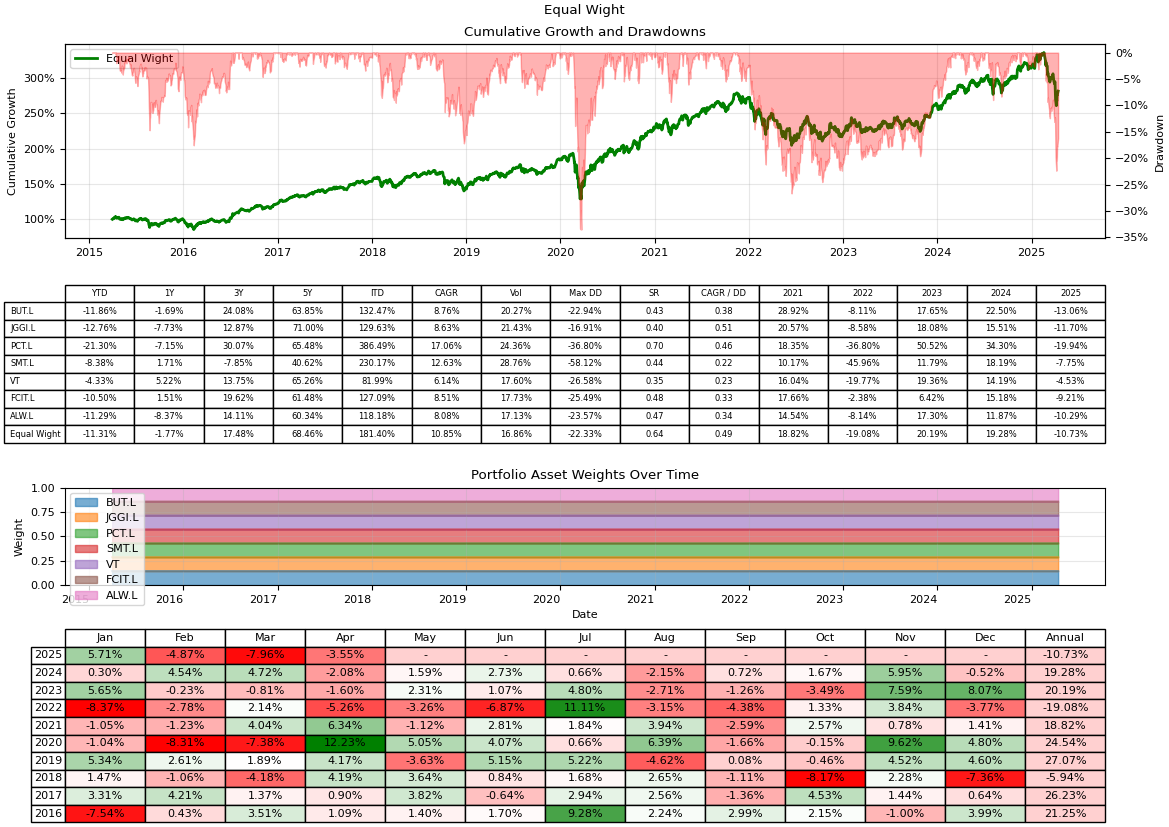
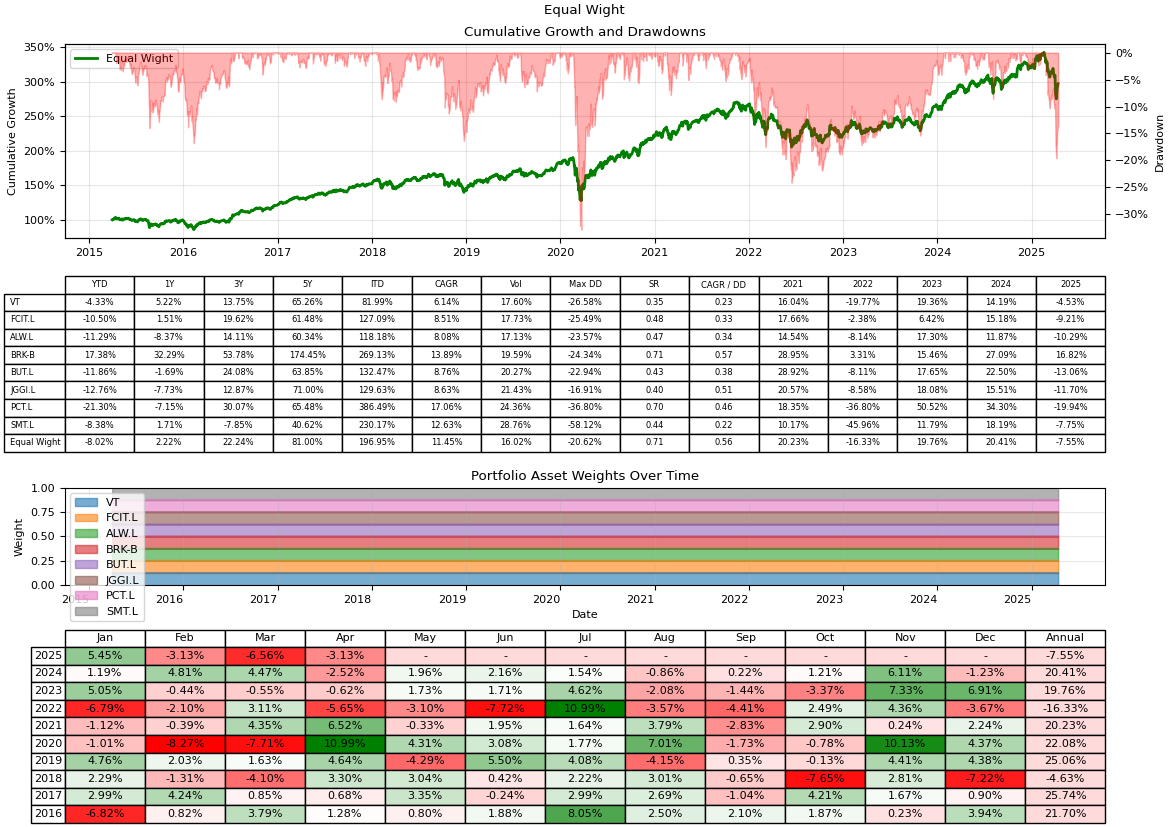
update proposed

diff --git a/pypension/main.py b/pypension/main.py
@@ -25,13 +25,17 @@ def main() -> None:
     )  # in decimal
 
     weights: dict[str, float] = {
-        "BUT.L": 0.17,
-        "JGGI.L": 0.17,
+        # index
+        "VT": 0.125,
+        "FCIT.L": 0.15,
+        "ALW.L": 0.15,
+        # active
+        "BRK-B": 0.125,
+        "BUT.L": 0.15,
+        "JGGI.L": 0.15,
+        # tech
         "PCT.L": 0.075,
         "SMT.L": 0.075,
-        "VT": 0.17,
-        "FCIT.L": 0.17,
-        "ALW.L": 0.17,
     }
 
     ser_rebalance_dates = pd.date_range(start=START_DATE, end=END_DATE, freq="BME")
